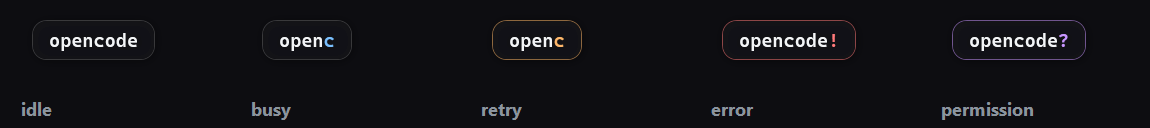
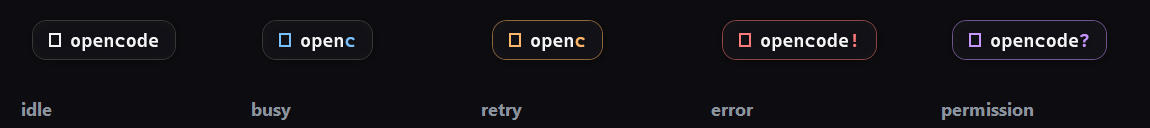
feat: o mark in the pill, tray smoke test and CI
The pill now carries the same thin o as the tray, in the state colour, with a 'mark' option to switch it off. The smoke test covers the tray renderer too (it asserts the Shell_NotifyIcon registration line, so the C# helper is exercised) and GitHub Actions runs typecheck, unit tests and the smoke test on windows-latest, with prepublishOnly guarding npm publish.

diff --git a/tests/smoke.test.ts b/tests/smoke.test.ts
@@ -1,10 +1,10 @@
 /**
  * Smoke test for the real thing: it loads the plugin, feeds it synthetic
  * OpenCode events and checks that presence files are written and a real
- * PowerShell popup host is started and stopped again.
+ * PowerShell host is started and stopped again, for both renderers.
  *
- * It spawns a visible window/tray icon and needs PowerShell, so it only runs
- * on Windows with SMOKE=1:
+ * It spawns a visible window or a tray icon and needs PowerShell, so it only
+ * runs on Windows with SMOKE=1:
  *
  *   $env:SMOKE=1; npm test
  */
@@ -18,66 +18,95 @@ import { hostInfoPathOf, presenceFileOf } from "../src/paths";
 const enabled = process.platform === "win32" && process.env.SMOKE === "1";
 
 describe.skipIf(!enabled)("plugin smoke", () => {
-  it("drives presence files and the host through a busy to idle cycle", async () => {
-    const stateDir = join(tmpdir(), `opencode-status-popup-smoke-${process.pid}`);
-    rmSync(stateDir, { recursive: true, force: true });
+  it("drives the window host through a busy to idle cycle", async () => {
+    await runCycle("window");
+  }, 60_000);
 
-    const previous = process.env.OPENCODE_STATUS_POPUP_DIR;
-    process.env.OPENCODE_STATUS_POPUP_DIR = stateDir;
-
-    const directory = process.cwd();
-    const presence = presenceFileOf(stateDir, directory);
-    const queue = new EventQueue();
-    const ctx = {
-      options: { mode: "window", idleSeconds: 30 },
-      location: { directory },
-      event: { subscribe: (options?: { signal?: AbortSignal }) => queue.stream(options?.signal) },
-    };
-
-    let cleanup: Awaited<ReturnType<typeof plugin.setup>> = undefined;
-    let hostPid = 0;
-    try {
-      cleanup = await plugin.setup(ctx as never);
-
-      expect(existsSync(presence)).toBe(true);
-      expect(readJson(presence)?.phase).toBe("idle");
-
-      queue.push({ type: "session.status", data: { sessionID: "ses_smoke", status: { type: "busy" } } });
-      const busy = await waitFor(() => {
-        const data = readJson(presence);
-        return data?.busy === 1 ? data : undefined;
-      });
-      expect(busy.phase).toBe("busy");
-
-      queue.push({ type: "session.text.delta", data: { sessionID: "ses_smoke" } });
-      queue.push({ type: "session.retry.scheduled", data: { sessionID: "ses_smoke" } });
-      await waitFor(() => (readJson(presence)?.phase === "retry" ? true : undefined));
-
-      const host = await waitFor(() => {
-        const info = readJson(hostInfoPathOf(stateDir));
-        if (!info || info.mode !== "window") return undefined;
-        if (Date.now() - Number(info.updated) > 8000) return undefined;
-        return info;
-      });
-      hostPid = Number(host.pid);
-      expect(hostPid).toBeGreaterThan(0);
-      expect(isAlive(hostPid)).toBe(true);
-
-      queue.push({ type: "session.idle", data: { sessionID: "ses_smoke" } });
-      await waitFor(() => (readJson(presence)?.phase === "idle" ? true : undefined));
-    } finally {
-      await cleanup?.();
-      if (previous === undefined) delete process.env.OPENCODE_STATUS_POPUP_DIR;
-      else process.env.OPENCODE_STATUS_POPUP_DIR = previous;
-    }
-
-    expect(existsSync(presence)).toBe(false);
-    if (hostPid > 0) {
-      await waitFor(() => (isAlive(hostPid) ? undefined : true));
-    }
-    rmSync(stateDir, { recursive: true, force: true });
+  it("drives the tray host through the same cycle", async () => {
+    const observed = await runCycle("tray");
+    // Proves the Shell_NotifyIcon path (and its C# helper) ran. On a machine
+    // without the shell running the registration can legitimately fail, so only
+    // the attempt is asserted.
+    expect(observed.log).toContain("tray icon registered=");
   }, 60_000);
 });
+
+interface CycleResult {
+  readonly log: string;
+  readonly hostPid: number;
+}
+
+async function runCycle(mode: "window" | "tray"): Promise<CycleResult> {
+  const stateDir = join(tmpdir(), `opencode-status-popup-${mode}-${process.pid}`);
+  rmSync(stateDir, { recursive: true, force: true });
+
+  const previous = process.env.OPENCODE_STATUS_POPUP_DIR;
+  process.env.OPENCODE_STATUS_POPUP_DIR = stateDir;
+
+  const directory = process.cwd();
+  const presence = presenceFileOf(stateDir, directory);
+  const queue = new EventQueue();
+  const context = {
+    options: { mode, idleSeconds: 30 },
+    location: { directory },
+    event: { subscribe: (options?: { signal?: AbortSignal }) => queue.stream(options?.signal) },
+  };
+
+  let cleanup: Awaited<ReturnType<typeof plugin.setup>> = undefined;
+  let hostPid = 0;
+  try {
+    cleanup = await plugin.setup(context as never);
+
+    expect(existsSync(presence)).toBe(true);
+    expect(readJson(presence)?.phase).toBe("idle");
+
+    queue.push({ type: "session.status", data: { sessionID: "ses_smoke", status: { type: "busy" } } });
+    const busy = await waitFor(() => {
+      const data = readJson(presence);
+      return data?.busy === 1 ? data : undefined;
+    });
+    expect(busy.phase).toBe("busy");
+
+    queue.push({ type: "session.text.delta", data: { sessionID: "ses_smoke" } });
+    queue.push({ type: "session.retry.scheduled", data: { sessionID: "ses_smoke" } });
+    await waitFor(() => (readJson(presence)?.phase === "retry" ? true : undefined));
+
+    const host = await waitFor(() => {
+      const info = readJson(hostInfoPathOf(stateDir));
+      if (!info || info.mode !== mode) return undefined;
+      if (Date.now() - Number(info.updated) > 8000) return undefined;
+      return info;
+    });
+    hostPid = Number(host.pid);
+    expect(hostPid).toBeGreaterThan(0);
+    expect(isAlive(hostPid)).toBe(true);
+
+    queue.push({ type: "permission.asked", data: { id: "per_smoke", sessionID: "ses_smoke", action: "bash", resources: ["npm test"] } });
+    const waiting = await waitFor(() => {
+      const data = readJson(presence);
+      return data?.phase === "permission" ? data : undefined;
+    });
+    expect(waiting.detail).toBe("bash npm test");
+
+    queue.push({ type: "permission.replied", data: { sessionID: "ses_smoke", requestID: "per_smoke", reply: "once" } });
+    queue.push({ type: "session.idle", data: { sessionID: "ses_smoke" } });
+    await waitFor(() => (readJson(presence)?.phase === "idle" ? true : undefined));
+  } finally {
+    await cleanup?.();
+    if (previous === undefined) delete process.env.OPENCODE_STATUS_POPUP_DIR;
+    else process.env.OPENCODE_STATUS_POPUP_DIR = previous;
+  }
+
+  expect(existsSync(presence)).toBe(false);
+  if (hostPid > 0) await waitFor(() => (isAlive(hostPid) ? undefined : true));
+
+  const logPath = join(stateDir, "host.log");
+  const log = existsSync(logPath) ? readFileSync(logPath, "utf8") : "";
+  expect(log).toContain(`start mode=${mode}`);
+  rmSync(stateDir, { recursive: true, force: true });
+
+  return { log, hostPid };
+}
 
 class EventQueue {
   private readonly queue: unknown[] = [];
@@ -122,10 +151,9 @@ function isAlive(pid: number): boolean {
 
 async function waitFor<T>(check: () => T | undefined, timeoutMs = 15_000): Promise<T> {
   const deadline = Date.now() + timeoutMs;
-  let last: T | undefined;
   while (Date.now() < deadline) {
-    last = check();
-    if (last !== undefined) return last;
+    const value = check();
+    if (value !== undefined) return value;
     await new Promise((resolve) => setTimeout(resolve, 100));
   }
   throw new Error("timed out waiting for the expected state");

diff --git a/src/host.ts b/src/host.ts
@@ -9,6 +9,7 @@ export interface HostSettings {
   readonly typeMs: number;
   readonly fresh: number;
   readonly idle: number;
+  readonly mark: boolean;
 }
 
 export const HOST_FRESH_MS = 8000;
@@ -20,6 +21,7 @@ interface HostInfo {
   typeMs?: number;
   fresh?: number;
   idle?: number;
+  mark?: boolean;
   updated?: number;
 }
 
@@ -143,6 +145,8 @@ export class HostSupervisor {
       this.options.stateDir,
       "-MutexName",
       hostMutexName(this.options.stateDir),
+      "-Mark",
+      settings.mark ? "1" : "0",
       "-Word",
       settings.word,
       "-TypeMs",
@@ -183,7 +187,8 @@ export class HostSupervisor {
       info.word === settings.word &&
       info.typeMs === settings.typeMs &&
       info.fresh === settings.fresh &&
-      info.idle === settings.idle
+      info.idle === settings.idle &&
+      info.mark === settings.mark
     );
   }
 

diff --git a/tests/config.test.ts b/tests/config.test.ts
@@ -13,6 +13,7 @@ describe("parseConfig", () => {
       freshSeconds: 20,
       idleSeconds: 25,
       errorHoldSeconds: 90,
+      mark: true,
       shellPath: null,
     });
   });
@@ -23,6 +24,13 @@ describe("parseConfig", () => {
     expect(parseConfig({ errorHoldSeconds: -5 }).errorHoldSeconds).toBe(0);
     expect(parseConfig({ errorHoldSeconds: 99_999 }).errorHoldSeconds).toBe(3600);
     expect(parseConfig({ errorHoldSeconds: "no" }).errorHoldSeconds).toBe(90);
+  });
+
+  it("shows the mark unless it is switched off", () => {
+    expect(parseConfig(undefined).mark).toBe(true);
+    expect(parseConfig({ mark: true }).mark).toBe(true);
+    expect(parseConfig({ mark: false }).mark).toBe(false);
+    expect(parseConfig({ mark: "no" }).mark).toBe(true);
   });
 
   it("accepts the tray mode", () => {

diff --git a/src/config.ts b/src/config.ts
@@ -10,6 +10,7 @@ export interface PopupConfig {
   readonly freshSeconds: number;
   readonly idleSeconds: number;
   readonly errorHoldSeconds: number;
+  readonly mark: boolean;
   readonly shellPath: string | null;
 }
 
@@ -54,6 +55,7 @@ export function parseConfig(options: unknown): PopupConfig {
       0,
       MAX_ERROR_HOLD_SECONDS,
     ),
+    mark: input.mark !== false,
     shellPath: parseShellPath(input.shellPath),
   };
 }

diff --git a/src/index.ts b/src/index.ts
@@ -38,6 +38,7 @@ export default Plugin.define({
         typeMs: config.typeMs,
         fresh: config.freshSeconds,
         idle: config.idleSeconds,
+        mark: config.mark,
       },
       shellPath: config.shellPath,
       log: (message) => console.error(`[${PLUGIN_ID}] ${message}`),

diff --git a/README.md b/README.md
@@ -33,11 +33,11 @@ While a session is thinking, a small always-on-top pill **types "opencode" lette
 
 | State | Window | Tray | Meaning |
 |---|---|---|---|
-| `idle` | `opencode`, white, slow breathing | the o, slow blink | nothing is running |
-| `busy` | `opencode` typing itself, blue | the o drawing itself pixel by pixel, blue | the agent is working |
-| `retry` | `opencode` typing itself, amber | the o drawing itself pixel by pixel, amber | a provider request failed and another attempt is scheduled |
-| `error` | `opencode!`, red, breathing | the o, red, blink | an execution failed (kept for `errorHoldSeconds`, or until the session works again) |
-| `permission` | `opencode?`, violet, faster breathing | the o, violet, fast blink | OpenCode is blocked waiting for a permission decision from you |
+| `idle` | `◻ opencode`, white, slow breathing | the o, slow blink | nothing is running |
+| `busy` | `◻ opencode` typing itself, blue | the o drawing itself pixel by pixel, blue | the agent is working |
+| `retry` | `◻ opencode` typing itself, amber | the o drawing itself pixel by pixel, amber | a provider request failed and another attempt is scheduled |
+| `error` | `◻ opencode!`, red, breathing | the o, red, blink | an execution failed (kept for `errorHoldSeconds`, or until the session works again) |
+| `permission` | `◻ opencode?`, violet, faster breathing | the o, violet, fast blink | OpenCode is blocked waiting for a permission decision from you |
 
 Priority is `permission` > `error` > `retry` > `busy` > `idle`, so a session waiting for permission is never hidden behind work happening in another session. In tray mode, a left click shows a balloon with the detail — `needs you: bash git push origin main`, `error: 429 provider.rate-limit` — and lists every project involved.
 
@@ -120,6 +120,7 @@ All options are optional. Defaults shown.
 | `freshSeconds` | `number` | `20` | How long presence data counts as fresh. |
 | `idleSeconds` | `number` | `25` | How long the host waits without any live instance before exiting. |
 | `errorHoldSeconds` | `number` | `90` | How long a failed execution keeps the pill red. Use `0` to keep it until the session works again. |
+| `mark` | `boolean` | `true` | Show the small o mark before the word in the pill window. |
 | `shellPath` | `string` | `null` | Force a specific PowerShell executable. |
 
 ```jsonc
